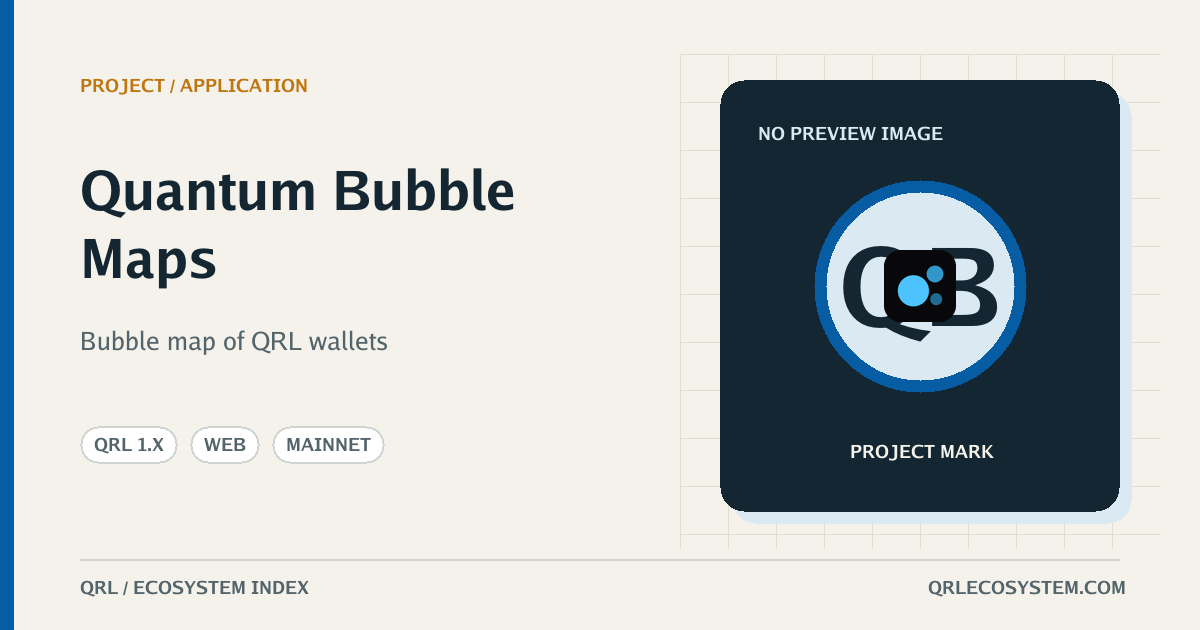
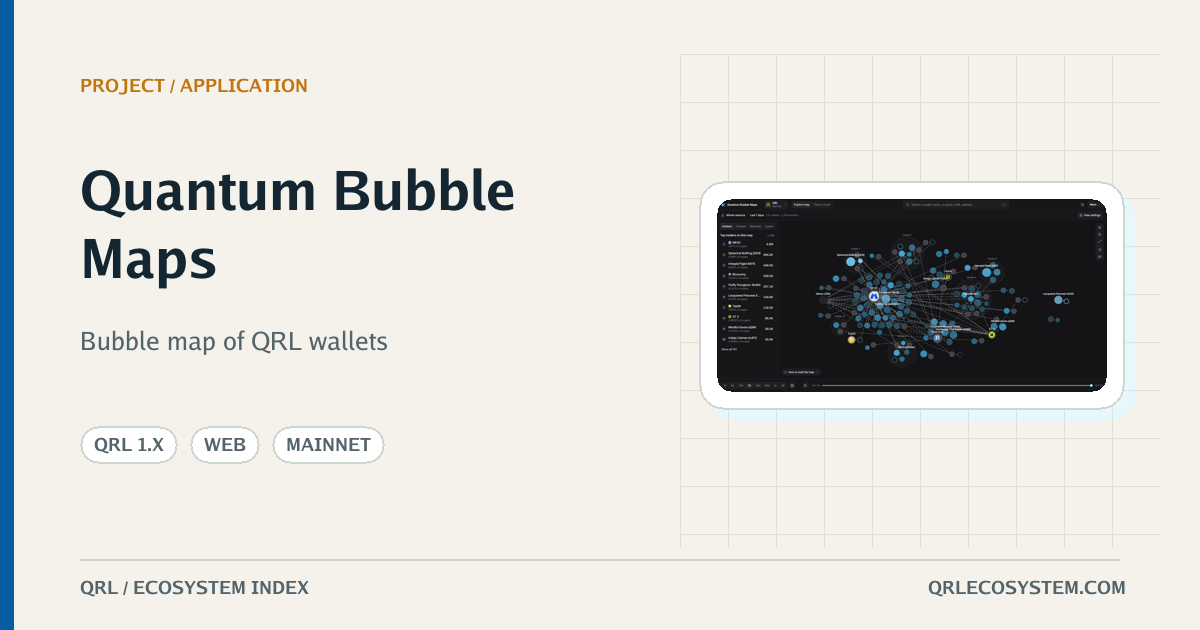
Quantum Bubble Maps: add map screenshot

Changed region(s): [[0.5858, 0.1206, 0.9558, 0.8444]]

diff --git a/website/content/projects/active/quantum-bubble-maps.md b/website/content/projects/active/quantum-bubble-maps.md
@@ -19,6 +19,10 @@ features:
     - Fund tracing, counterparties and balance-over-time per wallet
     - Time period picker with playback
     - Exchange and entity labels from the Quantascan directory
+gallery:
+    - type: image
+      path: quantum-bubble-maps/map.webp
+      caption: QRL wallets over the last 7 days as bubbles, grouped into clusters, with exchanges labelled and top holders listed.
 id: quantum-bubble-maps
 keywords:
     - bubble-map
